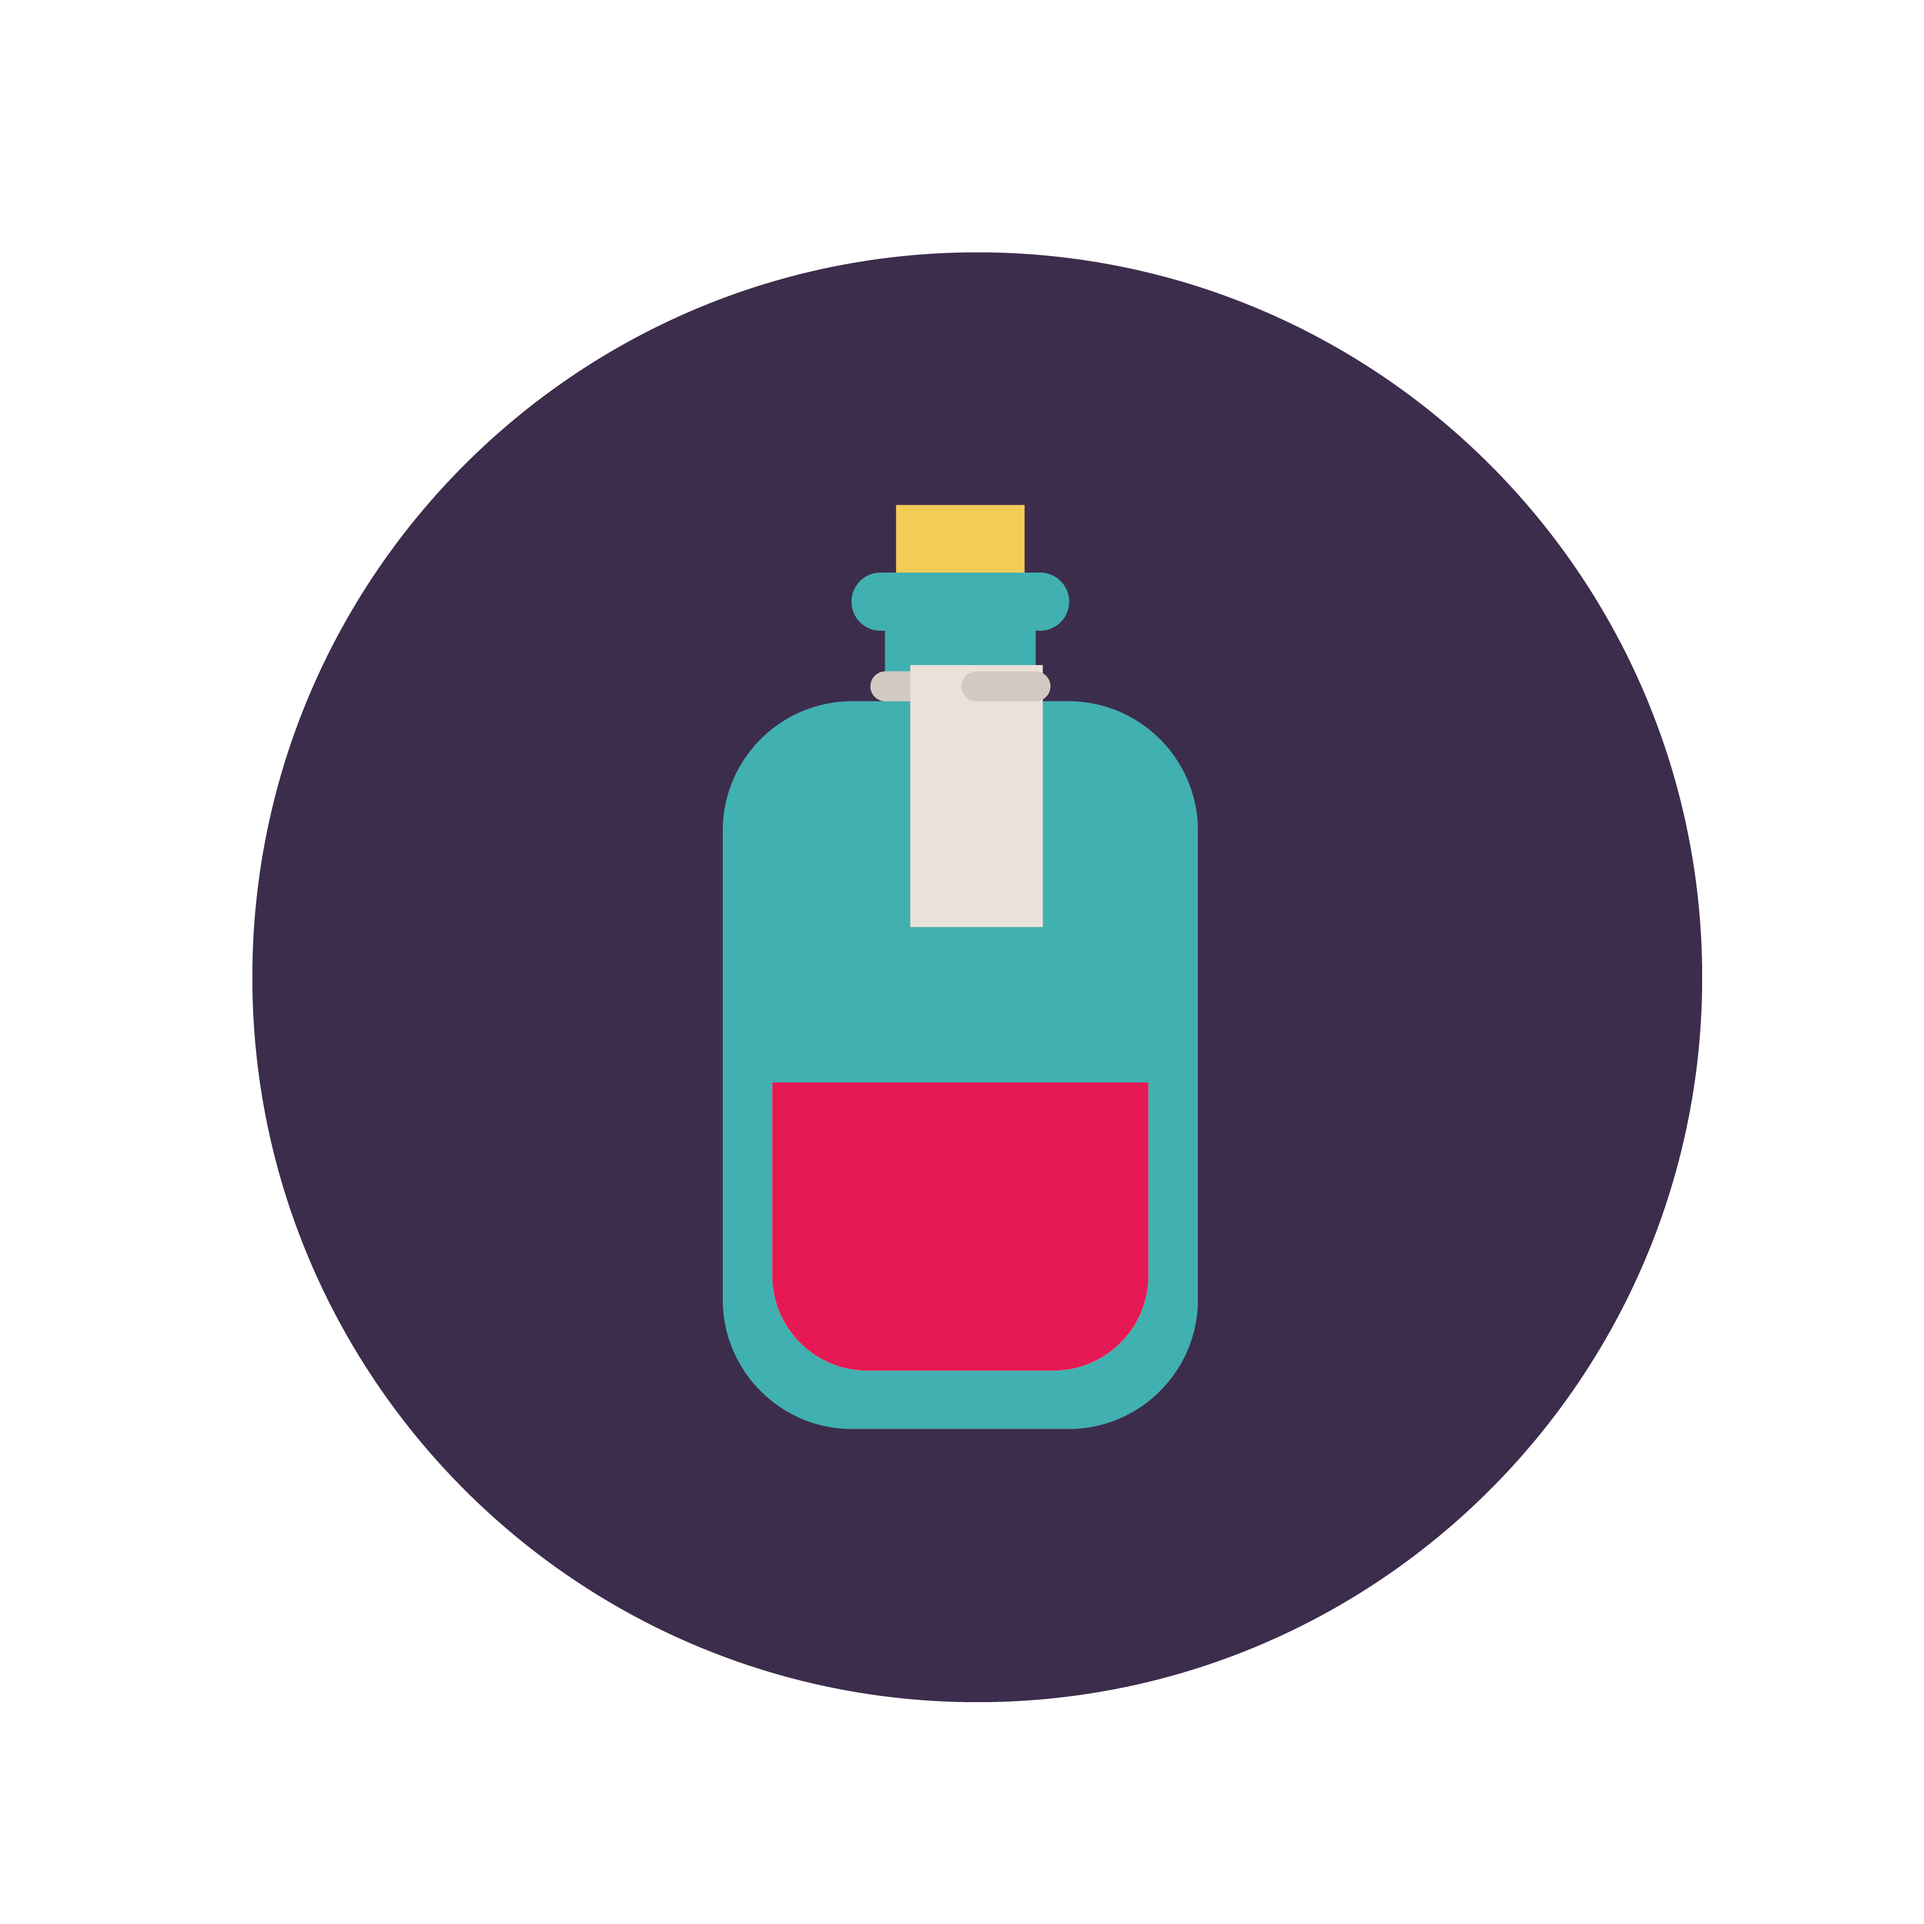
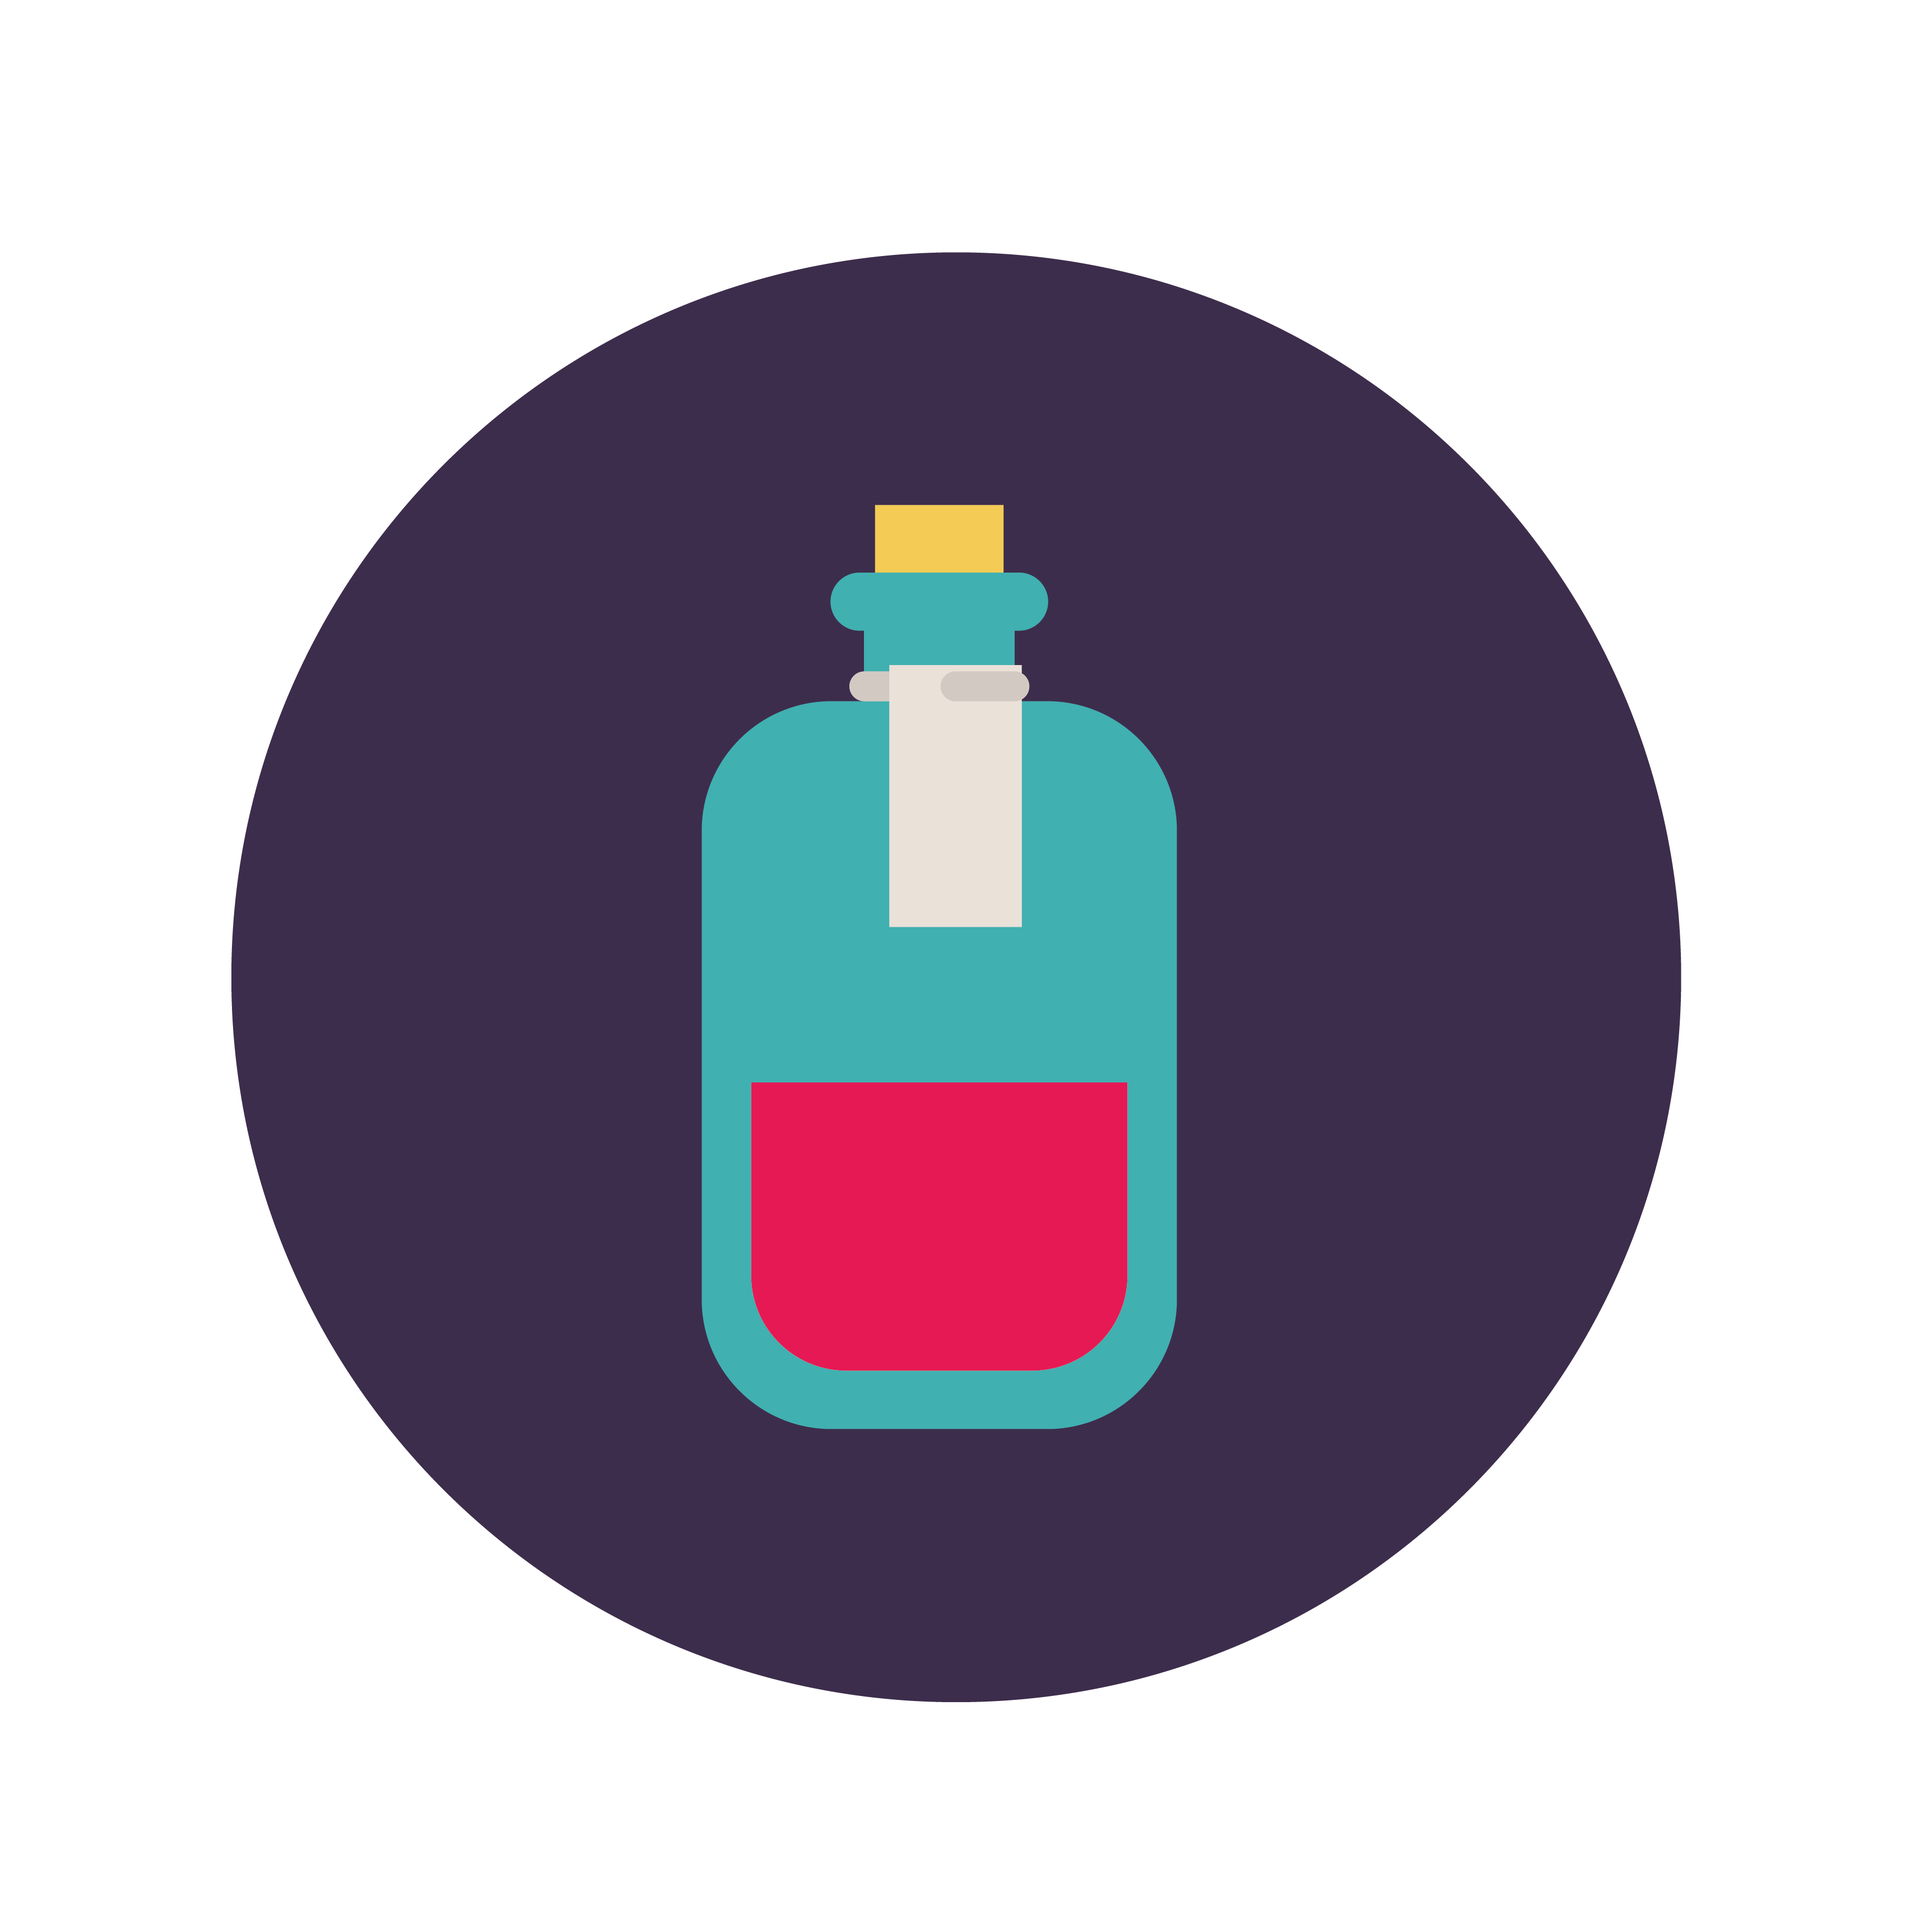
Arreglo pngs porque las imagenes estaban descentralizadas. Agrego 3 cartas para sumar dificultad

diff --git a/index.html b/index.html
@@ -161,6 +161,78 @@
     
             </div>
 
+            <div class="card" data-icon="croquet">
+    
+                <div class="face front">
+                    <img src="./css/img/crown.png" alt="">
+                </div>
+    
+                <div class="face back croquet">
+                    <img src="./css/img/croquet.png" alt="">
+                </div>
+    
+            </div>
+
+            <div class="card" data-icon="croquet">
+    
+                <div class="face front">
+                    <img src="./css/img/crown.png" alt="">
+                </div>
+    
+                <div class="face back croquet">
+                    <img src="./css/img/croquet.png" alt="">
+                </div>
+    
+            </div>
+
+            <div class="card" data-icon="cupcake">
+    
+                <div class="face front">
+                    <img src="./css/img/crown.png" alt="">
+                </div>
+    
+                <div class="face back teacup">
+                    <img src="./css/img/cupcake.png" alt="">
+                </div>
+    
+            </div>
+
+            <div class="card" data-icon="cupcake">
+    
+                <div class="face front">
+                    <img src="./css/img/crown.png" alt="">
+                </div>
+    
+                <div class="face back cupcake">
+                    <img src="./css/img/cupcake.png" alt="">
+                </div>
+    
+            </div>
+
+            <div class="card" data-icon="teapot">
+    
+                <div class="face front">
+                    <img src="./css/img/crown.png" alt="">
+                </div>
+    
+                <div class="face back teapot">
+                    <img src="./css/img/teapot.png" alt="">
+                </div>
+    
+            </div>
+
+            <div class="card" data-icon="teapot">
+    
+                <div class="face front">
+                    <img src="./css/img/crown.png" alt="">
+                </div>
+    
+                <div class="face back teapot">
+                    <img src="./css/img/teapot.png" alt="">
+                </div>
+    
+            </div>
+
         </div>
 
     </div>

diff --git a/css/styles.css b/css/styles.css
@@ -61,7 +61,7 @@ body h1 {
   width: -webkit-fit-content;
   width: -moz-fit-content;
   width: fit-content;
-  margin: 1.5rem auto 0.5rem auto;
+  margin: 2rem auto 1.5rem auto;
 }
 
 .wrapper {
@@ -70,7 +70,7 @@ body h1 {
   width: fit-content;
   height: 100vh;
   margin: 0 auto;
-  padding: 0.5rem 1rem;
+  padding: 0.5rem 1.5rem 0.5rem;
   background-color: #eae1d9;
 }
 
@@ -85,14 +85,14 @@ img {
   margin: 0 auto;
   display: -ms-grid;
   display: grid;
-  -ms-grid-columns: (1fr)[4];
-      grid-template-columns: repeat(4, 1fr);
+  -ms-grid-columns: (1fr)[6];
+      grid-template-columns: repeat(6, 1fr);
   gap: 1rem;
 }
 
 .card {
-  width: 150px;
-  height: 170px;
+  width: 130px;
+  height: 150px;
   position: relative;
   -webkit-transform-style: preserve-3d;
           transform-style: preserve-3d;
@@ -157,6 +157,18 @@ img {
 }
 
 .card .face.back.teacup {
+  background-color: #f4cb56;
+}
+
+.card .face.back.croquet {
+  background-color: #e62255;
+}
+
+.card .face.back.teapot {
+  background-color: #3d2d4c;
+}
+
+.card .face.back.cupcake {
   background-color: #f4cb56;
 }
 

diff --git a/css/scss/_card.scss b/css/scss/_card.scss
@@ -1,6 +1,6 @@
 .card{
-    width: 150px;
-    height: 170px;
+    width: 130px;
+    height: 150px;
     position: relative;
     transform-style: preserve-3d;
     .face{
@@ -42,6 +42,15 @@
                 background-color: $blue;
             }
             &.teacup{
+                background-color: $yellow;
+            }
+            &.croquet{
+                background-color: $pink;
+            }
+            &.teapot{
+                background-color: $purple;
+            }
+            &.cupcake{
                 background-color: $yellow;
             }
         }

diff --git a/css/scss/_body.scss b/css/scss/_body.scss
@@ -11,14 +11,14 @@ body{
         color: $purple;
         background-color: $gray;
         width: fit-content;
-        margin: 1.5rem auto 0.5rem auto;
+        margin: 2rem auto 1.5rem auto;
     }
 }
 .wrapper{
     width: fit-content;
     height: 100vh;
     margin: 0 auto;
-    padding: 0.5rem 1rem;
+    padding: 0.5rem 1.5rem 0.5rem ;
     background-color: $gray;
 }
 img{

diff --git a/css/scss/_card-container.scss b/css/scss/_card-container.scss
@@ -2,6 +2,6 @@
     width: fit-content;
     margin: 0 auto;
     display: grid;
-    grid-template-columns: repeat(4, 1fr);
+    grid-template-columns: repeat(6, 1fr);
     gap: 1rem;
 }
